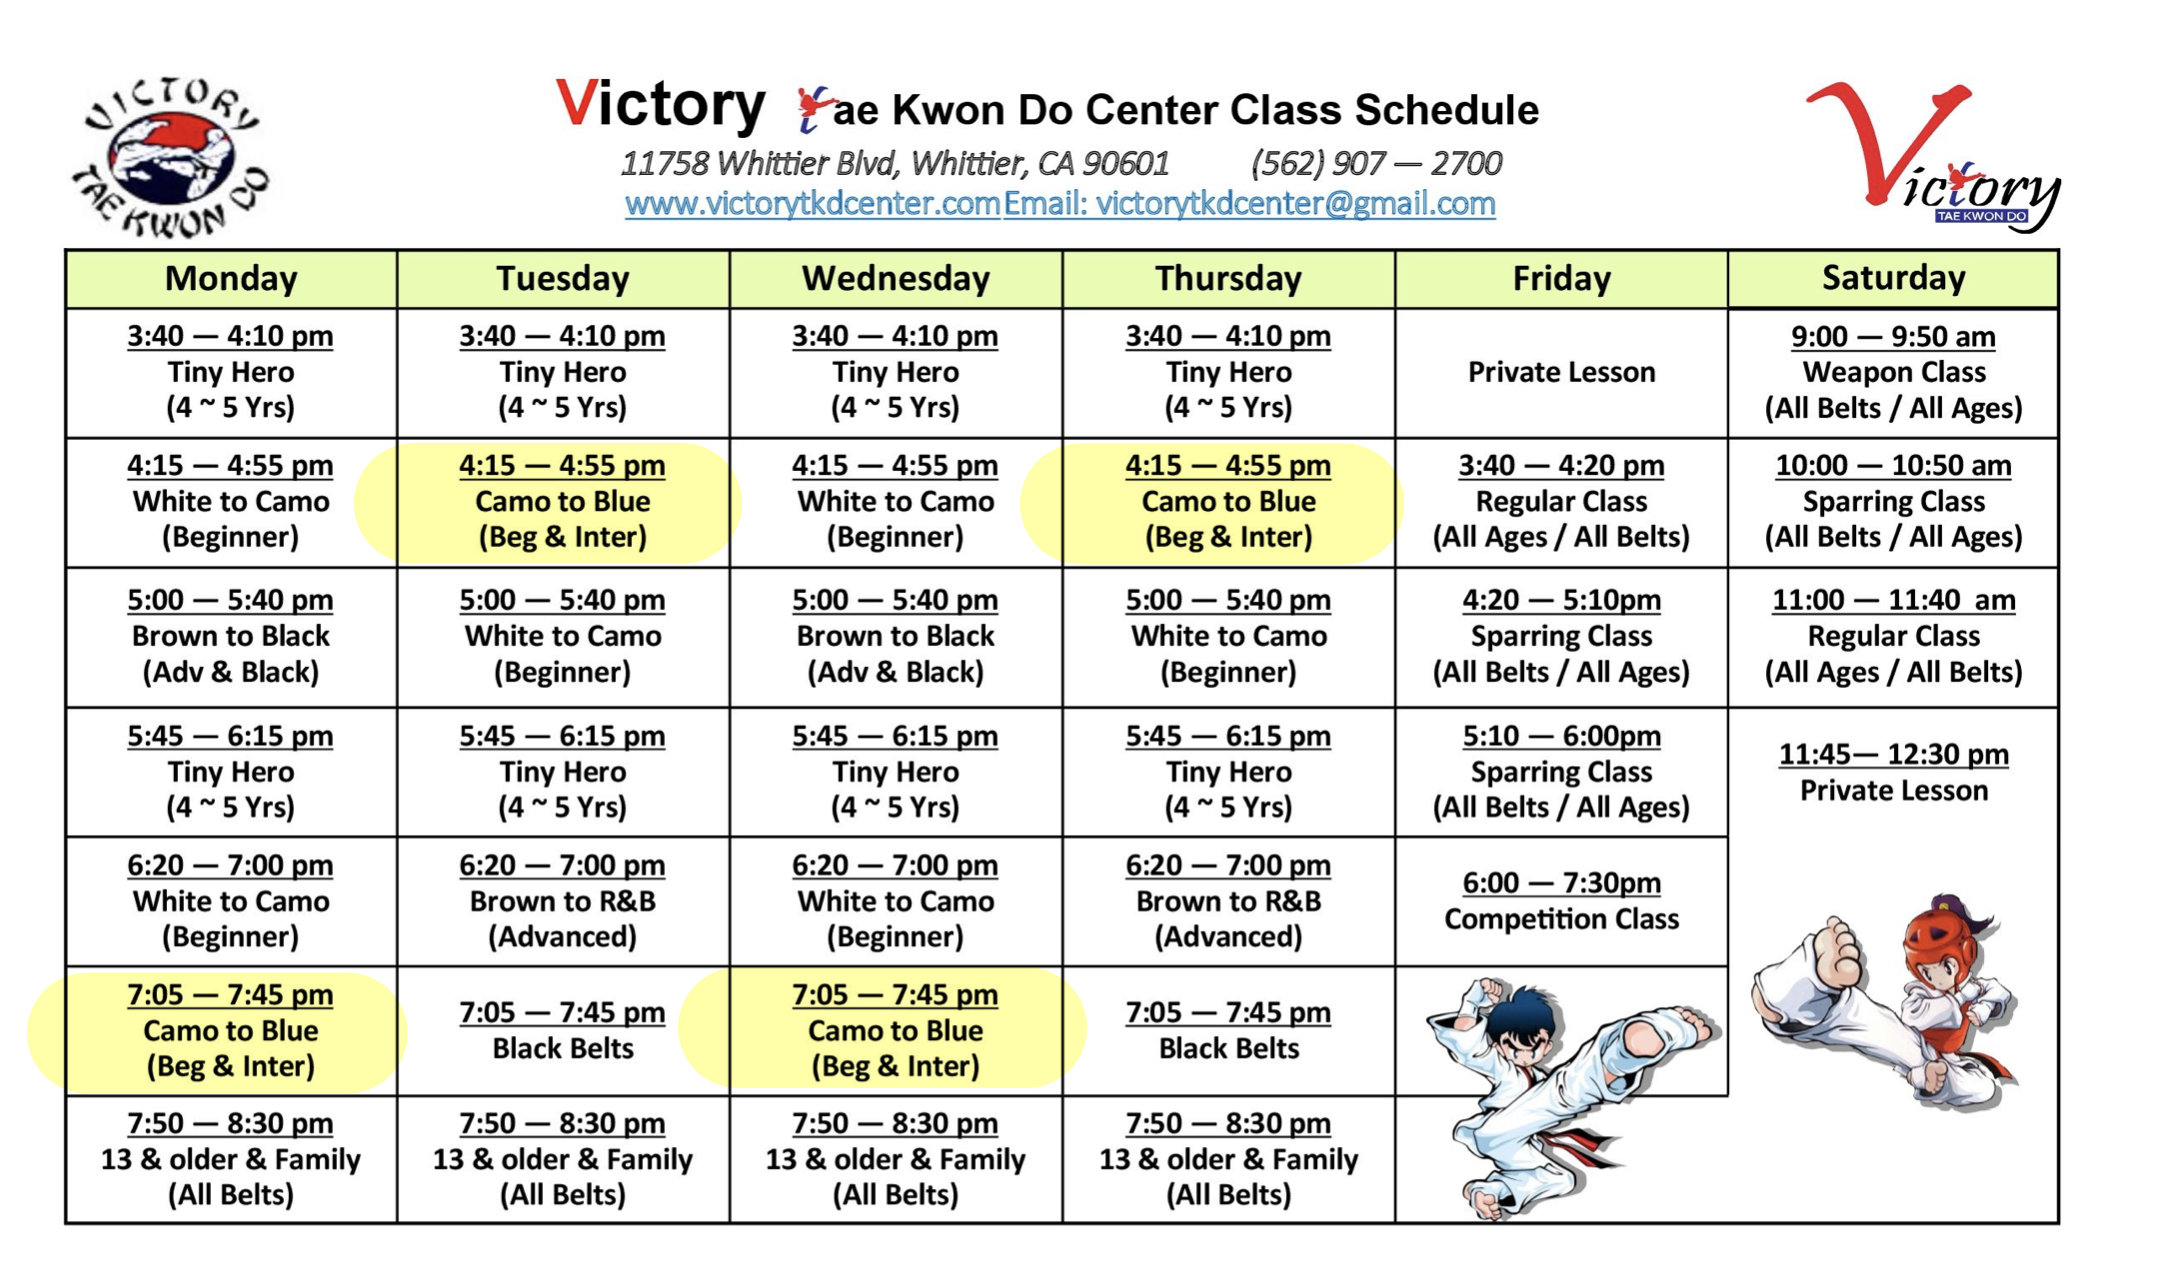
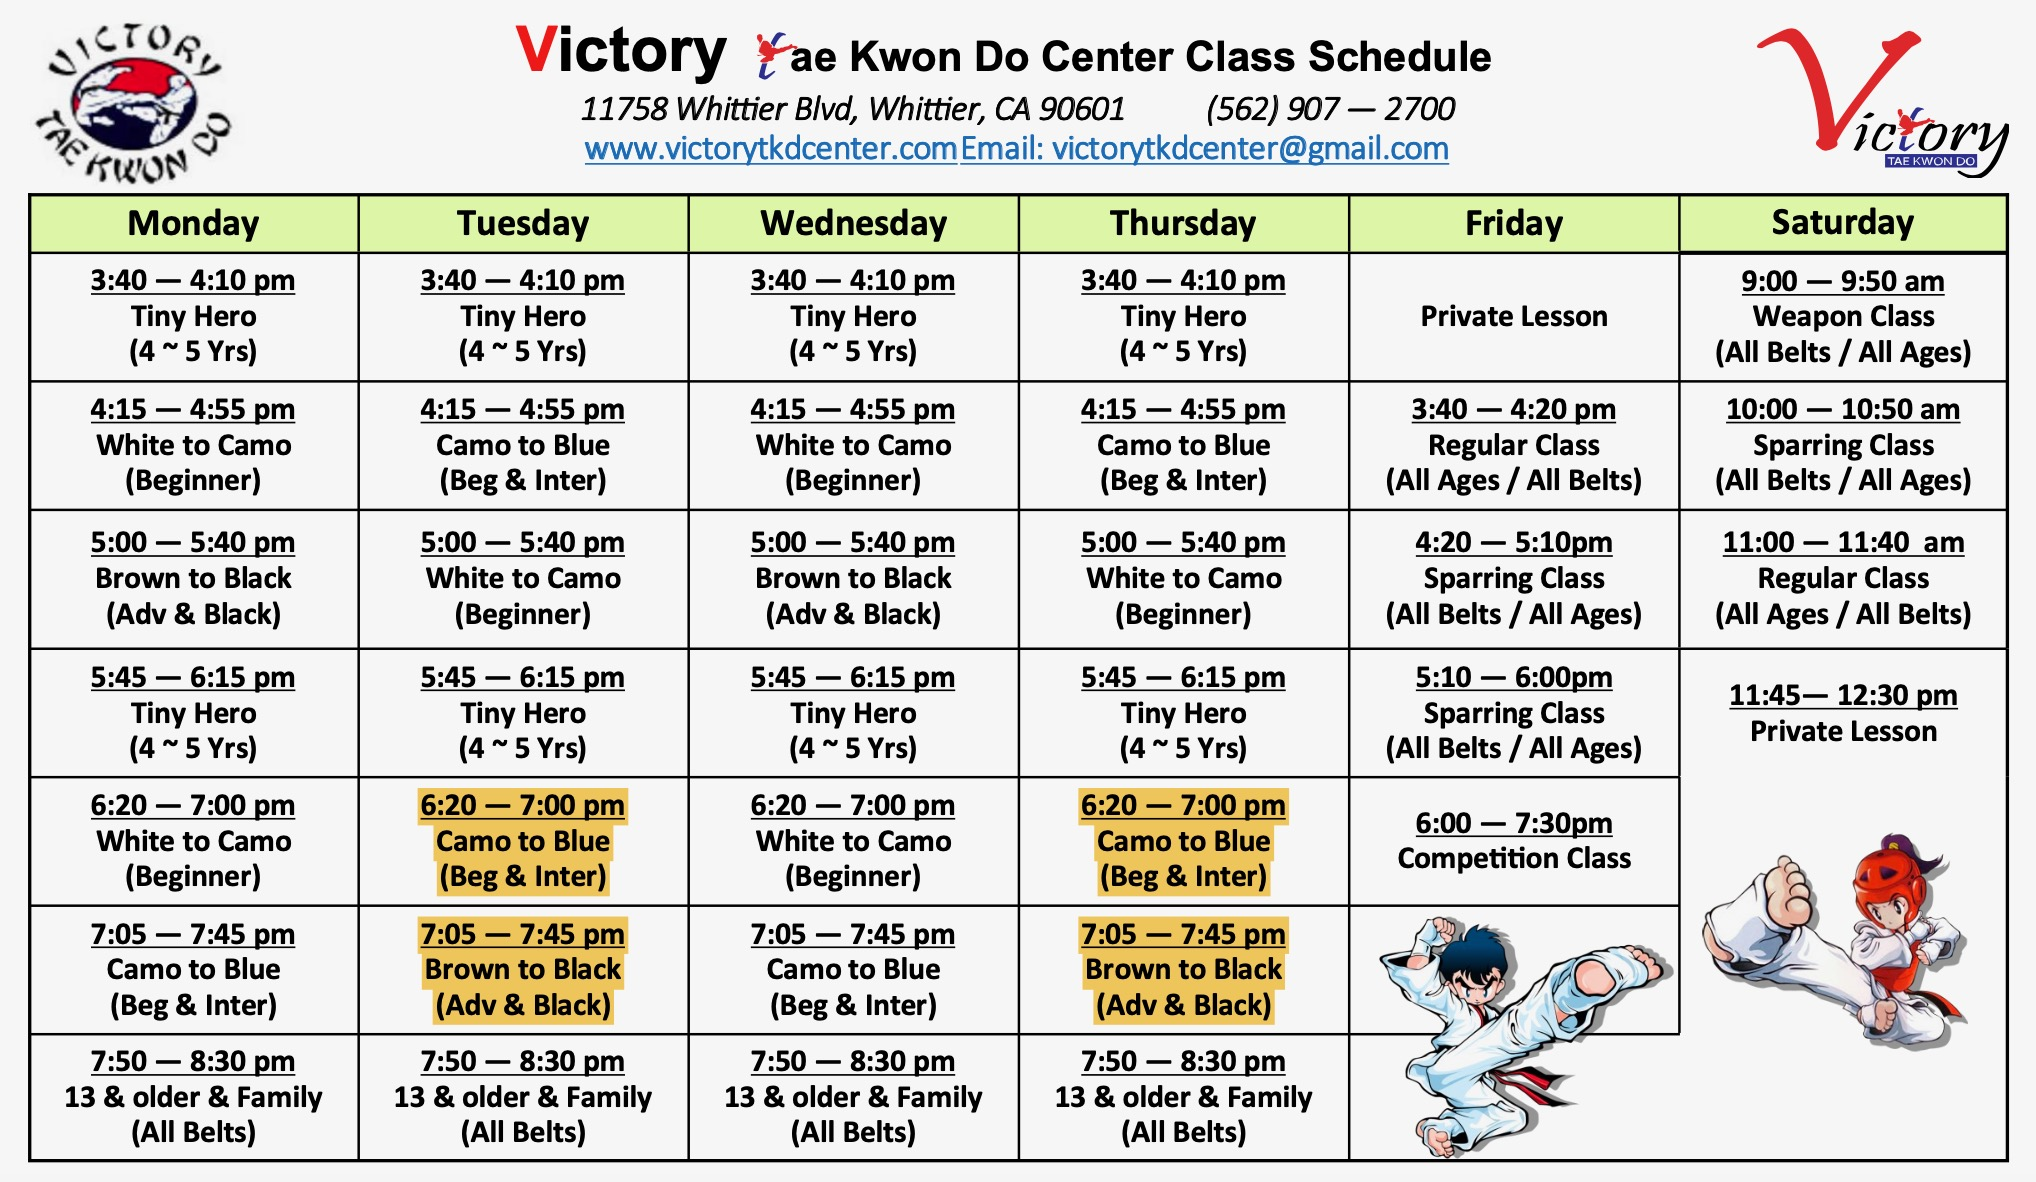
new schedule and styling

diff --git a/src/components/Header.js b/src/components/Header.js
@@ -5,6 +5,10 @@ import { FaBars, FaTimes } from "react-icons/fa";
 import "./styles/Navbar.css";
 import CustomBtn from "./Button";
 import { Typography } from "@mui/material";
+import facebook from "../assets/facebook.png";
+import instagram from "../assets/instagram.png";
+import yelp from "../assets/yelp.png";
+import twitter from "../assets/twitter.png";
 
 const Header = () => {
   const [click, setClick] = React.useState(false);
@@ -24,7 +28,12 @@ const Header = () => {
   return (
     <div className="navbar">
       <div className="logo">
-        <img src={logo} alt="Victory Taekwondo logo" />
+        <img className="header-logo" src={logo} alt="Victory Taekwondo logo" />
+
+        <img className="header-link" src={facebook} alt="" />
+        <img className="header-link" src={instagram} alt="" />
+        <img className="header-link" src={yelp} alt="" />
+        <img className="header-link" src={twitter} alt="" />
       </div>
       <ul className={click ? "nav-menu active" : "nav-menu"}>
         <li className="nav-item">
@@ -37,7 +46,7 @@ const Header = () => {
         <li className="nav-item">
           <NavLink to="/about" onClick={handleNavClick} className="links">
             <Typography fontWeight="bold" variant="overline">
-              about
+              about us
             </Typography>
           </NavLink>
         </li>

diff --git a/src/Pages/Contact.js b/src/Pages/Contact.js
@@ -12,6 +12,7 @@ const Contact = () => {
       initial={{ scaleY: 0 }}
       animate={{ scaleY: 1 }}
       exit={{ scaleY: 0 }}
+      id="contact"
     >
       <ContactContainer id="contact">
         <ContactHeader>
@@ -26,7 +27,7 @@ const Contact = () => {
             fontWeight="bold"
             className="talk"
           >
-            LET'S TALK
+            CONTACT US
           </Typography>
           {/* <img src={contact2} alt="Student" className="studentthree" />
           <img src={contact4} alt="Student" className="studentfour" /> */}
@@ -47,7 +48,7 @@ const Contact = () => {
               Send an Email directly
             </Typography>
             <form
-              action="https://formsubmit.co/calvinkim1230@gmail.com"
+              action="https://formsubmit.co/victorytkdcenter@gmail.com"
               method="POST"
             >
               <input
@@ -131,7 +132,7 @@ const ContactContent = styled.div`
   }
   .info {
     background-color: #e8e8e8;
-    width: fit-content;
+    /* width: fit-content; */
     padding: 1rem;
   }
   .send-message {
@@ -141,7 +142,7 @@ const ContactContent = styled.div`
     display: flex;
     flex-direction: column;
     margin: 2rem auto;
-    width: fit-content;
+    width: 25rem;
     padding: 1rem;
   }
   .input {

diff --git a/src/components/styles/Navbar.css b/src/components/styles/Navbar.css
@@ -3,13 +3,26 @@
   justify-content: space-between;
   align-items: center;
   height: 130px;
-  background: linear-gradient(to right, #27496d, #1e2749);
+  /* background: linear-gradient(to right, #0040ff, #1e2749); */
+  background-color: #f5f5f5;
   padding: 1rem;
 }
 
-.navbar img {
+.logo {
+  display: flex;
+  /* flex-direction: column; */
+  align-items: center;
+  justify-content: center;
+}
+
+.header-logo {
   width: 150px;
   height: 120px;
+}
+
+.header-link {
+  width: 2rem;
+  margin-right: 0.3rem;
 }
 
 .nav-menu {
@@ -30,7 +43,7 @@
 .links {
   position: relative;
   padding: 0.4rem 0.5rem;
-  color: #fff;
+  color: #212121;
   opacity: 0.7;
 }
 
@@ -45,7 +58,7 @@
   height: 1px;
   bottom: 0;
   left: 0;
-  background-color: #fff;
+  background-color: #212121;
   visibility: hidden;
   transform: scaleX(0);
   transition: all 0.3s ease-in-out;
@@ -57,7 +70,7 @@
 }
 
 .links.active {
-  border-bottom: 1px solid #fff;
+  border-bottom: 1px solid #212121;
   opacity: 1;
 }
 
@@ -85,6 +98,16 @@
     display: flex;
     justify-content: center;
     align-items: center;
+  }
+  .links {
+    color: #f5f5f5;
+  }
+  .links:before {
+    background-color: #f5f5f5;
+  }
+
+  .links.active {
+    border-bottom: 1px solid #f5f5f5;
   }
   .hamburger {
     display: flex;

diff --git a/src/components/Trial.js b/src/components/Trial.js
@@ -10,14 +10,16 @@ const Trial = () => {
       {/* <img className="trial-background" src={image} alt="" /> */}
       <TrialContainer>
         <TrialOffer>
-          <Typography
-            className="offer"
-            variant="h4"
-            fontWeight="bold"
-            marginBottom="1rem"
-          >
-            EXCLUSIVE OFFER
-          </Typography>
+          <div className="offer-wrapper">
+            <Typography
+              className="offer"
+              variant="h4"
+              fontWeight="bold"
+              marginBottom="1rem"
+            >
+              EXCLUSIVE OFFER
+            </Typography>
+          </div>
           <Typography
             className="offer-description"
             variant="h6"
@@ -27,8 +29,8 @@ const Trial = () => {
             student at Victory Taekwondo for{" "}
             <span className="trial-price">ONLY $39</span>!
           </Typography>
-          <a href="/classes">
-            <CustomBtn className="solid-btn view-btn">VIEW CLASSES</CustomBtn>
+          <a href="#contact">
+            <CustomBtn className="solid-btn view-btn">SIGN UP</CustomBtn>
           </a>
         </TrialOffer>
         <TrialIncludes>

diff --git a/src/components/Footer.js b/src/components/Footer.js
@@ -55,8 +55,14 @@ const Footer = () => {
             </Typography>
           </ContactHeader>
           <ContactContent>
-            <span className="email">victorytkdcenter@gmail.com</span>
-            <div className="phone">(562) 907-2700</div>
+            <span className="email">
+              <a href="mailto:victorytkdcenter@gmail.com">
+                victorytkdcenter@gmail.com
+              </a>
+            </span>
+            <div className="phone">
+              <a href="tel:5629072700">(562) 907-2700</a>
+            </div>
             <div className="social-links">
               <a
                 href="https://www.facebook.com/victorytkdcenter/"
@@ -133,7 +139,7 @@ const Footer = () => {
           </AddressHeader>
           <AddressContent>
             <Typography fontSize=".8rem">
-              11758 E. Whittier Blvd. Whittier, CA 90601
+              11758 Whittier Blvd, Whittier, CA 90601
             </Typography>
           </AddressContent>
         </AddressContainer>

diff --git a/src/components/ContactInfo.js b/src/components/ContactInfo.js
@@ -26,16 +26,22 @@ const ContactInfo = () => {
         <div>
           <div className="item">
             <LocalPhoneOutlinedIcon />{" "}
-            <span className="item-content">(562) 907-2700</span>
+            <span className="item-content">
+              <a href="tel:5629072700">(562) 907-2700</a>
+            </span>
           </div>
           <div className="item">
             <AlternateEmailOutlinedIcon />{" "}
-            <span className="item-content">victorytkdcenter@gmail.com</span>
+            <span className="item-content">
+              <a href="mailto:victorytkdcenter@gmail.com">
+                victorytkdcenter@gmail.com
+              </a>
+            </span>
           </div>
           <div className="item">
             <RoomOutlinedIcon />{" "}
             <span className="item-content">
-              11758 E. Whittier Blvd. Whittier, CA 90601
+              11758 Whittier Blvd, Whittier, CA 90601
             </span>
           </div>
         </div>

diff --git a/src/components/Testimonial.js b/src/components/Testimonial.js
@@ -3,12 +3,11 @@ import { Typography } from "@mui/material";
 import React from "react";
 import KeyboardArrowDownIcon from "@mui/icons-material/KeyboardArrowDown";
 import Carousel from "./Carousel";
-import stone from "../assets/stones.png";
 
 const Testimonial = () => {
   return (
     <TestimonialPage>
-      <img className="stone-img" src={stone} alt="stone" />
+      {/* <img className="stone-img" src={stone} alt="stone" /> */}
       <TestimonialHeader>
         <Typography
           variant="h5"
@@ -32,7 +31,7 @@ const TestimonialPage = styled.div`
   flex-direction: column;
   align-items: center;
   justify-content: center;
-  background: rgba(0, 0, 0);
+  /* background: rgba(0, 0, 0); */
   .stone-img {
     position: absolute;
     width: 100%;

diff --git a/src/components/Map.js b/src/components/Map.js
@@ -5,12 +5,16 @@ import "../App.css";
 
 const Map = () => {
   return (
-    <MapContainer center={[51.505, -0.09]} zoom={13} scrollWheelZoom={false}>
+    <MapContainer
+      center={[33.98053, -118.05089]}
+      zoom={13}
+      scrollWheelZoom={false}
+    >
       <TileLayer
         attribution='&copy; <a href="https://www.openstreetmap.org/copyright">OpenStreetMap</a> contributors'
         url="https://tiles.stadiamaps.com/tiles/alidade_smooth_dark/{z}/{x}/{y}{r}.png"
       />
-      <Marker position={[51.505, -0.09]}>
+      <Marker position={[33.98053, -118.05089]}>
         <Popup>Victory Taekwondo (V1)</Popup>
       </Marker>
     </MapContainer>

diff --git a/src/Pages/Home.js b/src/Pages/Home.js
@@ -5,7 +5,7 @@ import Trial from "../components/Trial";
 import DownArrow from "../components/DownArrow";
 import Testimonial from "../components/Testimonial";
 import Contact from "./Contact";
-import video from "../assets/background.mp4";
+import video from "../assets/video.mp4";
 import CustomBtn from "../components/Button";
 import { motion } from "framer-motion";
 import {
@@ -92,7 +92,7 @@ const HomeContent = styled.div`
   background: rgba(0, 0, 0, 0.6);
   video {
     z-index: -1;
-    height: 85vh;
+    height: 87vh;
     width: 100%;
     position: absolute;
     object-fit: fill;

diff --git a/src/components/News/NewClassSchedule.js b/src/components/News/NewClassSchedule.js
@@ -21,7 +21,7 @@ const NewClassSchedule = () => {
       </Typography>
       <div className="new-class-schedule-text">
         <Typography variant="overline">
-          We will implement a new class schedule effective March 1, 2022. We
+          We will implement a new class schedule effective May 31, 2022. We
           moved around some belt levels to different classes to create more
           space so that we can offer more individualized attention to our
           students.

diff --git a/public/index.html b/public/index.html
@@ -30,7 +30,7 @@
       work correctly both with client-side routing and a non-root public URL.
       Learn how to configure a non-root public URL by running `npm run build`.
     -->
-    <title>React App</title>
+    <title>Victory Taekwondo</title>
   </head>
   <body>
     <noscript>You need to enable JavaScript to run this app.</noscript>

diff --git a/src/Pages/styles/ClassSchedule.css b/src/Pages/styles/ClassSchedule.css
@@ -2,7 +2,7 @@
   display: flex;
   flex-direction: column;
   align-items: center;
-  height: 70vh;
+  height: 80vh;
   margin-bottom: 4rem;
 }
 .schedule {
@@ -26,7 +26,7 @@
 }
 @media screen and (min-width: 1440px) {
   .schedule {
-    width: 50rem;
-    height: 28rem;
+    width: 60rem;
+    height: 35rem;
   }
 }
